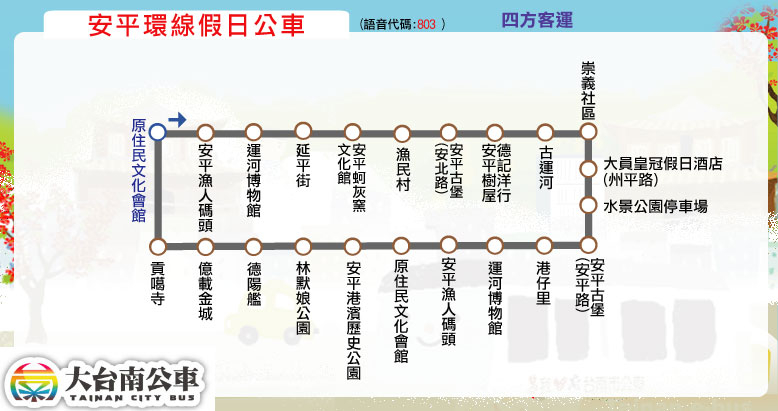
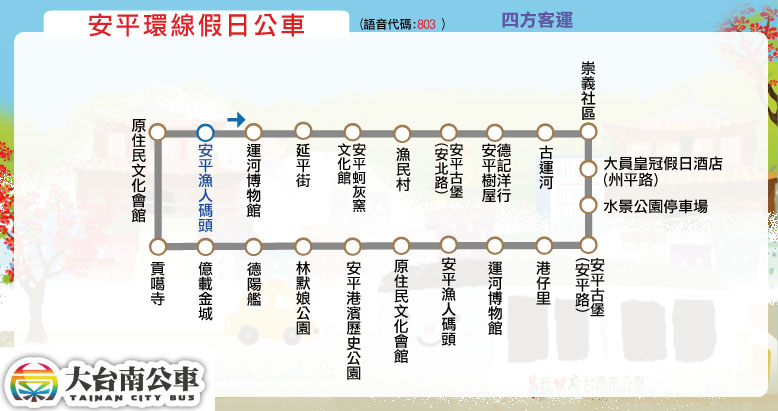
更新路線圖：77-1(起訖點改為「安平漁人碼頭」)

diff --git a/urban/77-1.html b/urban/77-1.html
@@ -30,7 +30,7 @@
 			<table border="0">\
 				<tr>\
 					<td>起迄點</td>\
-					<td>原住民文化會館(起迄點相同)</td>\
+					<td>安平漁人碼頭(起迄點相同)</td>\
 				</tr>\
 				<tr>\
 					<td>營運公司</td>\
@@ -81,7 +81,7 @@
 	</div>\
 	<div class="content">\
 		<p>&nbsp;</p>\
-		<h2><font color="purple">原住民文化會館-&gt;安平古堡-&gt;億載金城-&gt;原住民文化會館</font></h2>\
+		<h2><font color="purple">安平漁人碼頭-&gt;安平古堡-&gt;億載金城-&gt;安平漁人碼頭</font></h2>\
 		<p>&nbsp;</p>\
 		<h1><font color="blue">每20分鐘一班</font></h1>\
 		<h3>發車時間：10:00~19:00</h3>\
